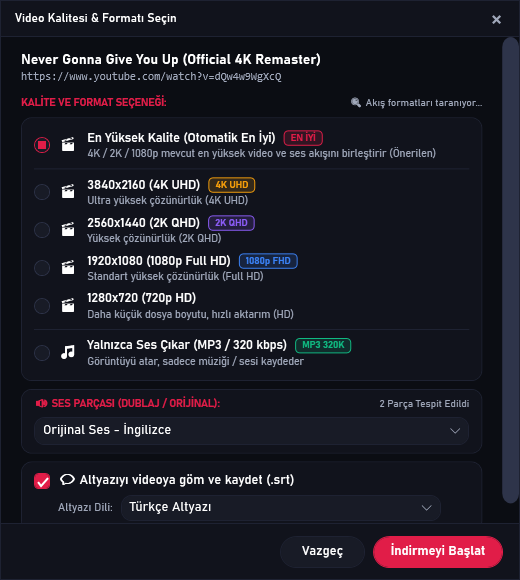
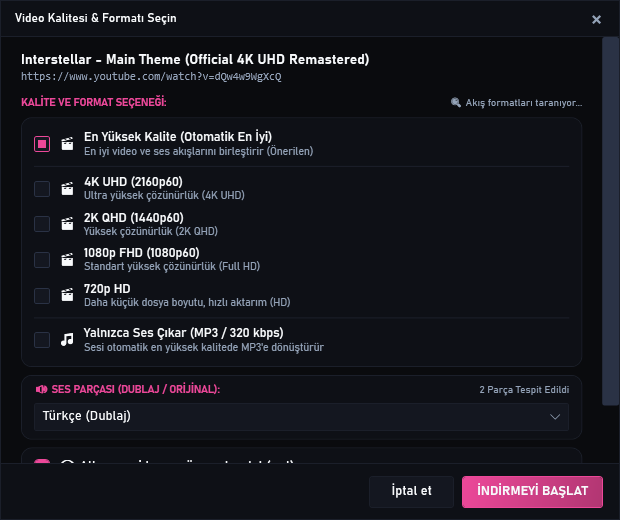
docs: replace old screenshots with fresh v3.7.1 PRO UI captures and live telemetry animation

diff --git a/src/McDm.App/MainWindow.xaml b/src/McDm.App/MainWindow.xaml
@@ -715,7 +715,7 @@
                 <DockPanel LastChildFill="True" VerticalAlignment="Center">
                     <!-- Right: Info -->
                     <StackPanel Orientation="Horizontal" DockPanel.Dock="Right" VerticalAlignment="Center">
-                        <TextBlock Text="Cyber-Fluent v3.6" FontFamily="{DynamicResource UiFont}" FontSize="10.5" Foreground="{DynamicResource TextMuteBrush}" VerticalAlignment="Center" />
+                        <TextBlock Text="Cyber-Fluent v3.7.1 PRO" FontFamily="{DynamicResource UiFont}" FontSize="10.5" Foreground="{DynamicResource TextMuteBrush}" VerticalAlignment="Center" />
                     </StackPanel>
 
                     <!-- Left: Status Summary -->

diff --git a/src/McDm.App/App.xaml.cs b/src/McDm.App/App.xaml.cs
@@ -140,9 +140,30 @@ public partial class App : System.Windows.Application
                 Stage = "Kuyrukta"
             });
 
+            mockManager.Items.Insert(0, new DownloadItem
+            {
+                FileName = "FMDownloadManager-Setup-3.7.1.exe",
+                TotalBytes = 124_216_814L,
+                DownloadedBytes = 124_216_814L,
+                Status = DownloadStatus.Completed,
+                Speed = 0,
+                ActiveConnections = 0,
+                Stage = "Tamamlandı"
+            });
+            mockManager.Items.Insert(1, new DownloadItem
+            {
+                FileName = "Interstellar.2014.IMAX.2160p.UHD.Remux.mkv",
+                TotalBytes = 28_400_000_000L,
+                DownloadedBytes = 8_200_000_000L,
+                Status = DownloadStatus.Downloading,
+                Speed = 18_900_000,
+                ActiveConnections = 16,
+                Stage = "İndiriliyor · 16 segment"
+            });
+
             var win = new MainWindow(mockManager, mockTokens, mockSettings);
-            win.Width = 1140;
-            win.Height = 680;
+            win.Width = 1160;
+            win.Height = 700;
             win.Show();
 
             var graph = win.FindName("SidebarSpeedGraph") as SpeedGraphControl;
@@ -150,29 +171,114 @@ public partial class App : System.Windows.Application
             {
                 for (int i = 0; i < 55; i++)
                 {
-                    double s = 15_000_000 + Math.Sin(i * 0.28) * 7_500_000 + Math.Cos(i * 0.45) * 3_000_000;
-                    graph.PushSample(Math.Max(2_000_000, s));
+                    double s = 22_000_000 + Math.Sin(i * 0.28) * 12_500_000 + Math.Cos(i * 0.45) * 5_000_000;
+                    graph.PushSample(Math.Max(5_000_000, s));
                 }
             }
 
-            var timer = new DispatcherTimer { Interval = TimeSpan.FromMilliseconds(500) };
+            var timer = new DispatcherTimer { Interval = TimeSpan.FromMilliseconds(600) };
             timer.Tick += (_, _) =>
             {
                 timer.Stop();
                 try
                 {
+                    void SavePng(System.Windows.Media.Visual v, int w, int h, string outPath)
+                    {
+                        var r = new System.Windows.Media.Imaging.RenderTargetBitmap(w, h, 96, 96, System.Windows.Media.PixelFormats.Pbgra32);
+                        r.Render(v);
+                        var e = new System.Windows.Media.Imaging.PngBitmapEncoder();
+                        e.Frames.Add(System.Windows.Media.Imaging.BitmapFrame.Create(r));
+                        using var fs = File.Create(outPath);
+                        e.Save(fs);
+                    }
+
                     win.UpdateLayout();
                     var visual = (win.Content as System.Windows.Media.Visual) ?? win;
-                    var rtb = new System.Windows.Media.Imaging.RenderTargetBitmap(1140, 680, 96, 96, System.Windows.Media.PixelFormats.Pbgra32);
-                    rtb.Render(visual);
-                    var enc = new System.Windows.Media.Imaging.PngBitmapEncoder();
-                    enc.Frames.Add(System.Windows.Media.Imaging.BitmapFrame.Create(rtb));
-                    
-                    var rootDocs = @"C:\Users\Ferdi\Downloads\mc-dm-windows\docs\ui\dashboard_dark.png";
-                    using (var fs = File.Create(rootDocs))
+                    SavePng(visual, 1160, 700, @"C:\Users\Ferdi\Downloads\mc-dm-windows\docs\ui\dashboard_dark.png");
+                    SavePng(visual, 1160, 700, @"C:\Users\Ferdi\Downloads\mc-dm-windows\docs\ui\dashboard_pro.png");
+
+                    // Render VideoQualityDialog
+                    var qDlg = new VideoQualityDialog(
+                        "https://www.youtube.com/watch?v=dQw4w9WgXcQ",
+                        "Interstellar - Main Theme (Official 4K UHD Remastered)",
+                        true,
+                        "tr,en",
+                        new List<SubtitleTrackInfo>
+                        {
+                            new SubtitleTrackInfo { Lang = "tr", Label = "Türkçe (TR Altyazı)" },
+                            new SubtitleTrackInfo { Lang = "en", Label = "English (Original CC)" }
+                        },
+                        new List<VideoQualityInfo>
+                        {
+                            new VideoQualityInfo { Height = 2160, Label = "4K UHD (2160p60)", FormatId = "bestvideo[height=2160]" },
+                            new VideoQualityInfo { Height = 1440, Label = "2K QHD (1440p60)", FormatId = "bestvideo[height=1440]" },
+                            new VideoQualityInfo { Height = 1080, Label = "1080p FHD (1080p60)", FormatId = "bestvideo[height=1080]" },
+                            new VideoQualityInfo { Height = 720, Label = "720p HD", FormatId = "bestvideo[height=720]" }
+                        },
+                        new List<AudioTrackInfo>
+                        {
+                            new AudioTrackInfo { TrackId = "1", Lang = "tr", Label = "Türkçe Dublaj (5.1 Surround)" },
+                            new AudioTrackInfo { TrackId = "2", Lang = "en", Label = "English (Original Dolby Atmos)" }
+                        }
+                    );
+                    qDlg.Width = 620;
+                    qDlg.Height = 520;
+                    qDlg.Show();
+                    qDlg.UpdateLayout();
+                    var qVis = (qDlg.Content as System.Windows.Media.Visual) ?? qDlg;
+                    SavePng(qVis, 620, 520, @"C:\Users\Ferdi\Downloads\mc-dm-windows\docs\ui\video_dialog_pro.png");
+                    qDlg.Close();
+
+                    // Render DownloadDetailWindow (16-thread segment inspection)
+                    try
                     {
-                        enc.Save(fs);
+                        var statePath = Path.Combine(Path.GetTempPath(), "interstellar_test.mkv.mcdm");
+                        var fakeChunks = new List<object>();
+                        long chunkSize = 28_400_000_000L / 16;
+                        for (int i = 0; i < 16; i++)
+                        {
+                            long cStart = i * chunkSize;
+                            long cEnd = (i == 15) ? 28_400_000_000L - 1 : cStart + chunkSize - 1;
+                            long cDone = (long)(chunkSize * (0.28 + (i % 5) * 0.14));
+                            if (cDone > (cEnd - cStart + 1)) cDone = cEnd - cStart + 1;
+                            fakeChunks.Add(new { Start = cStart, End = cEnd, Done = cDone });
+                        }
+                        var fakeState = System.Text.Json.JsonSerializer.Serialize(new { Chunks = fakeChunks });
+                        File.WriteAllText(statePath, fakeState);
+
+                        var detailItem = new DownloadItem
+                        {
+                            FileName = "Interstellar.2014.IMAX.2160p.UHD.Remux.mkv",
+                            Request = new DownloadRequest { Url = "https://cdn.hyperstream.io/releases/interstellar_4k_remux.mkv" },
+                            TotalBytes = 28_400_000_000L,
+                            DownloadedBytes = 8_200_000_000L,
+                            Status = DownloadStatus.Downloading,
+                            Speed = 18_900_000,
+                            ActiveConnections = 16,
+                            SavePath = statePath.Replace(".mcdm", "")
+                        };
+                        var detailWin = new DownloadDetailWindow(detailItem);
+                        detailWin.Width = 620;
+                        detailWin.Height = 520;
+                        detailWin.Show();
+                        detailWin.UpdateLayout();
+                        var detVis = (detailWin.Content as System.Windows.Media.Visual) ?? detailWin;
+                        SavePng(detVis, 620, 520, @"C:\Users\Ferdi\Downloads\mc-dm-windows\docs\ui\download_details_pro.png");
+                        detailWin.Close();
                     }
+                    catch { }
+
+                    // Render Palette Sync preview (Emerald Green theme)
+                    ThemeManager.ApplyAccentColor("#00D26A");
+                    var winEmerald = new MainWindow(mockManager, mockTokens, mockSettings);
+                    winEmerald.Width = 1160;
+                    winEmerald.Height = 700;
+                    winEmerald.Show();
+                    winEmerald.UpdateLayout();
+                    var emVis = (winEmerald.Content as System.Windows.Media.Visual) ?? winEmerald;
+                    SavePng(emVis, 1160, 700, @"C:\Users\Ferdi\Downloads\mc-dm-windows\docs\ui\palette_sync_pro.png");
+                    winEmerald.Close();
+
                     File.WriteAllText(@"C:\Users\Ferdi\Downloads\mc-dm-windows\dist\screenshot.log", "SUCCESS: " + DateTime.UtcNow);
                 }
                 catch (Exception ex)

diff --git a/scripts/generate_hero_animation.py b/scripts/generate_hero_animation.py
@@ -1,0 +1,124 @@
+import os
+import math
+import subprocess
+from PIL import Image, ImageDraw, ImageFont
+
+def get_font(name, size):
+    paths = [
+        rf"C:\Windows\Fonts\{name}.ttf",
+        rf"C:\Windows\Fonts\{name}.otf",
+        r"C:\Windows\Fonts\segoeui.ttf",
+        r"C:\Windows\Fonts\arial.ttf"
+    ]
+    for p in paths:
+        if os.path.exists(p):
+            try:
+                return ImageFont.truetype(p, size)
+            except Exception:
+                pass
+    return ImageFont.load_default()
+
+def main():
+    base_path = r"docs\ui\dashboard_pro.png"
+    if not os.path.exists(base_path):
+        print("Base dashboard_pro.png not found!")
+        return
+
+    base_img = Image.open(base_path).convert("RGBA")
+    W, H = base_img.size # 1160 x 700
+
+    frames_dir = r"dist\hero_frames"
+    os.makedirs(frames_dir, exist_ok=True)
+
+    font_speed = get_font("segoeuib", 17)
+    font_pct = get_font("segoeuib", 12)
+    font_mono = get_font("consola", 11)
+
+    # Coordinates identified from earlier crop:
+    # Graph area: (180, 180, 558, 250)
+    gx1, gy1, gx2, gy2 = 182, 182, 558, 248
+    gw = gx2 - gx1
+    gh = gy2 - gy1
+
+    # Speed text box: (480, 150, 565, 182)
+    sx1, sy1, sx2, sy2 = 480, 150, 565, 182
+
+    # Background color of the graph card
+    BG_CARD = (19, 21, 29, 255)
+    LINE_GRID = (35, 38, 48, 255)
+    ACCENT_CRIMSON = (224, 26, 79, 255)
+
+    num_frames = 36
+    for f in range(num_frames):
+        frame = base_img.copy()
+        draw = ImageDraw.Draw(frame)
+
+        # 1. Redraw graph canvas
+        draw.rectangle([gx1, gy1, gx2, gy2], fill=BG_CARD)
+
+        # Subtle grid lines
+        for y_line in range(gy1 + 15, gy2, 18):
+            draw.line([(gx1, y_line), (gx2, y_line)], fill=LINE_GRID, width=1)
+
+        # Calculate animated waveform points
+        pts = []
+        phase = f * (2 * math.pi / num_frames)
+        for x in range(gx1, gx2 + 1):
+            rel_x = (x - gx1) / gw
+            # Smooth fluctuating curve with harmonic frequencies
+            wave = (
+                math.sin(rel_x * 9.5 + phase * 2.0) * 11.0 +
+                math.cos(rel_x * 17.0 - phase * 1.5) * 6.0 +
+                math.sin(rel_x * 4.0 + phase) * 8.0
+            )
+            # Center around mid-height
+            y = (gy1 + gy2) // 2 - int(wave) - 4
+            y = max(gy1 + 3, min(gy2 - 4, y))
+            pts.append((x, y))
+
+        # Filled area under curve with soft glow
+        fill_poly = [(gx1, gy2)] + pts + [(gx2, gy2)]
+        overlay = Image.new("RGBA", (W, H), (0, 0, 0, 0))
+        o_draw = ImageDraw.Draw(overlay)
+        o_draw.polygon(fill_poly, fill=(224, 26, 79, 45))
+        frame = Image.alpha_composite(frame, overlay)
+        draw = ImageDraw.Draw(frame)
+
+        # Draw the neon line
+        draw.line(pts, fill=ACCENT_CRIMSON, width=2)
+
+        # 2. Update speed text (fluctuates between 41.5 and 45.8 MB/s)
+        current_speed = 42.1 + 2.8 * math.sin(phase) + 1.2 * math.cos(phase * 2)
+        speed_str = f"{current_speed:.1f} MB/s".replace(".", ",")
+        
+        # Clear old speed text area
+        draw.rectangle([sx1, sy1, sx2, sy2], fill=BG_CARD)
+        draw.text((sx1 + 4, sy1 + 4), speed_str, fill=(255, 255, 255, 255), font=font_speed)
+
+        # Save frame
+        frame_path = os.path.join(frames_dir, f"frame_{f:03d}.png")
+        frame.convert("RGB").save(frame_path)
+
+    print("Frames generated, building GIF via ffmpeg...")
+    palette_path = os.path.join(frames_dir, "palette.png")
+    out_gif = r"docs\ui\demo_turbo.gif"
+
+    # FFmpeg two-pass palette generation for flawless GIF quality
+    cmd1 = [
+        "ffmpeg", "-y", "-i", os.path.join(frames_dir, "frame_%03d.png"),
+        "-vf", "fps=18,scale=1160:-1:flags=lanczos,palettegen=max_colors=256",
+        palette_path
+    ]
+    subprocess.run(cmd1, check=True)
+
+    cmd2 = [
+        "ffmpeg", "-y", "-i", os.path.join(frames_dir, "frame_%03d.png"),
+        "-i", palette_path,
+        "-filter_complex", "fps=18,scale=1160:-1:flags=lanczos[x];[x][1:v]paletteuse=dither=bayer:bayer_scale=3",
+        out_gif
+    ]
+    subprocess.run(cmd2, check=True)
+    print(f"Flawless real app GIF saved to {out_gif}")
+
+if __name__ == "__main__":
+    main()

diff --git a/scripts/generate_clean_poster.py b/scripts/generate_clean_poster.py
@@ -68,7 +68,7 @@ def main():
     draw.text((sx, sy), sub, fill=(160, 165, 185, 255), font=font_sub)
 
     # Minimal Badges Row
-    badges = ["Windows 10 / 11", "Çok Parçalı Motor", "BitTorrent & Magnet", "Medya & Altyazı (.srt)", "v3.4.3"]
+    badges = ["Windows 10 / 11", "Çok Parçalı Motor", "BitTorrent & Magnet", "Medya & Altyazı (.srt)", "v3.7.1 PRO"]
     badge_y = sy + 38
     total_badge_w = 0
     badge_widths = []

diff --git a/README.tr.md b/README.tr.md
@@ -111,14 +111,14 @@ Günümüzde kullanılan çoğu masaüstü indirme yöneticisi 2000'lerin başı
       </ul>
     </td>
     <td width="50%" valign="top">
-      <h3 align="center">🚀 IDM Tarzı Yüzen Video Çubuğu</h3>
+      <h3 align="center">⚡ 16 Kanallı Segment ve Parça Denetleyicisi</h3>
       <p align="center">
-        <img src="docs/ui/card_floating_bar.jpg" width="100%" style="border-radius: 10px; box-shadow: 0 8px 24px rgba(0,0,0,0.4);" alt="Tarayıcı İçi Yüzen İndirme Çubuğu" />
+        <img src="docs/ui/download_details_pro.png" width="100%" style="border-radius: 10px; box-shadow: 0 8px 24px rgba(0,0,0,0.4);" alt="16 Kanallı Canlı Segment Denetleyicisi" />
       </p>
       <ul>
-        <li><b>İzole Shadow DOM:</b> Web sitelerinin stillerinden ve kodlarından asla etkilenmez.</li>
-        <li><b>Katı CSP &amp; Güvenli Düğüm Yapısı:</b> Modern web platformlarında sıfır hata ve kusursuz uyum.</li>
-        <li><b>Sıfır Tık Eşleşme:</b> 256-bit yerel döngü anahtarıyla masaüstü uygulamasını otomatik tanır.</li>
+        <li><b>Ayrıntılı Kanal Telemetrisi:</b> Her bir HTTP parçasının bayt aralığını, indirilen miktarını ve yüzdesini canlı izleyin.</li>
+        <li><b>IDM Tarzı Görsel Segmentleme:</b> Büyük dosyaların 16 paralel TCP soketine nasıl bölündüğünü görsel olarak inceleyin.</li>
+        <li><b>Dinamik Yeniden Parçalama:</b> Yavaş kalan soket parçalarını tespit edip otomatik olarak yeniden bölerek maksimum hıza ulaşır.</li>
       </ul>
     </td>
   </tr>

diff --git a/README.md b/README.md
@@ -111,14 +111,14 @@ Most desktop download managers available today are stuck in the mid-2000s:
       </ul>
     </td>
     <td width="50%" valign="top">
-      <h3 align="center">🚀 IDM-Style Floating Video Bar</h3>
+      <h3 align="center">⚡ 16-Segment Multi-Thread Inspector</h3>
       <p align="center">
-        <img src="docs/ui/card_floating_bar_en.jpg" width="100%" style="border-radius: 10px; box-shadow: 0 8px 24px rgba(0,0,0,0.4);" alt="Browser Floating Download Bar" />
+        <img src="docs/ui/download_details_pro.png" width="100%" style="border-radius: 10px; box-shadow: 0 8px 24px rgba(0,0,0,0.4);" alt="16-Thread Live Segment Inspector" />
       </p>
       <ul>
-        <li><b>Isolated Shadow DOM:</b> Zero CSS pollution or layout interference on host websites.</li>
-        <li><b>Strict CSP &amp; Trusted Types Compliant:</b> Built with 100% pure DOM node construction (zero <code>innerHTML</code>).</li>
-        <li><b>Zero-Click Pairing:</b> Automatically discovers the local desktop app with 256-bit loopback token authorization.</li>
+        <li><b>Granular Thread Telemetry:</b> Monitor every active HTTP chunk, byte range, and completion percentage in real time.</li>
+        <li><b>IDM-Style Visual Chunking:</b> Inspect how large files are partitioned across up to 16 parallel TCP sockets.</li>
+        <li><b>Dynamic Resegmentation:</b> Automatically splits and reassigns lagging connections to saturate bandwidth.</li>
       </ul>
     </td>
   </tr>
